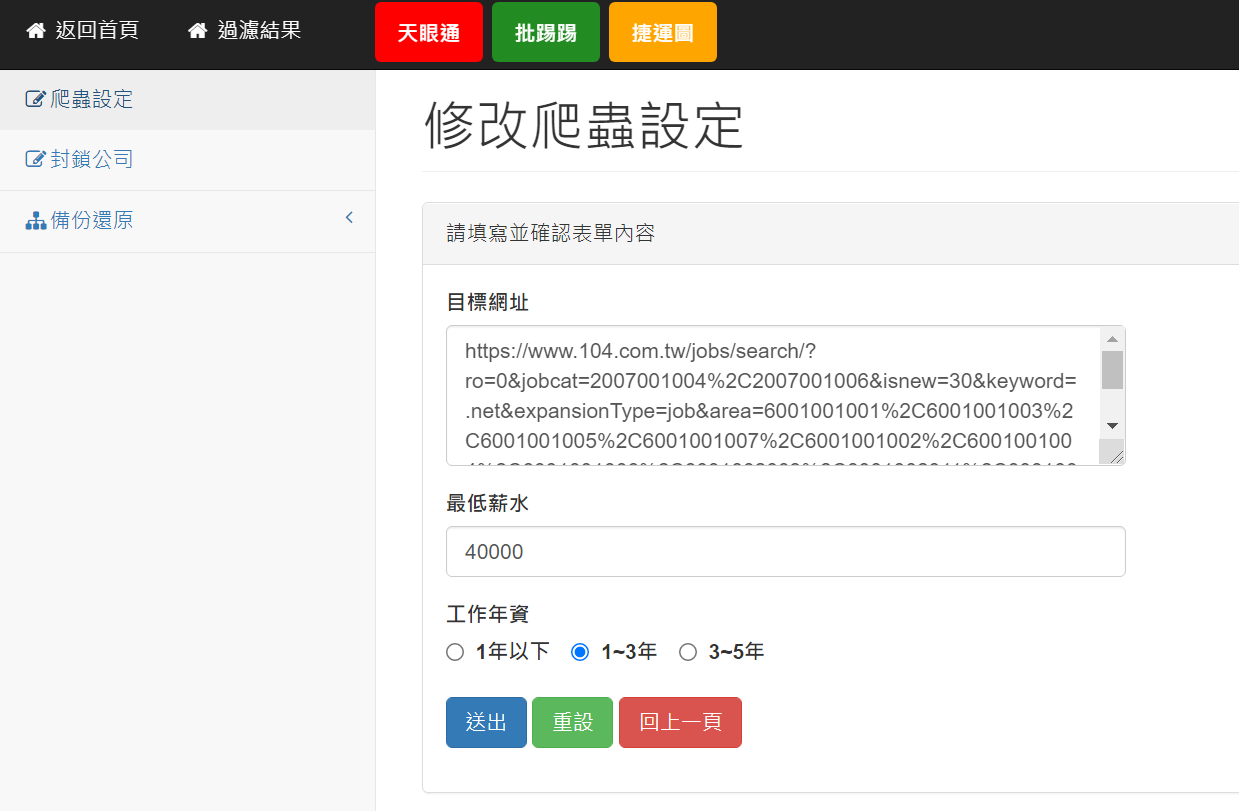
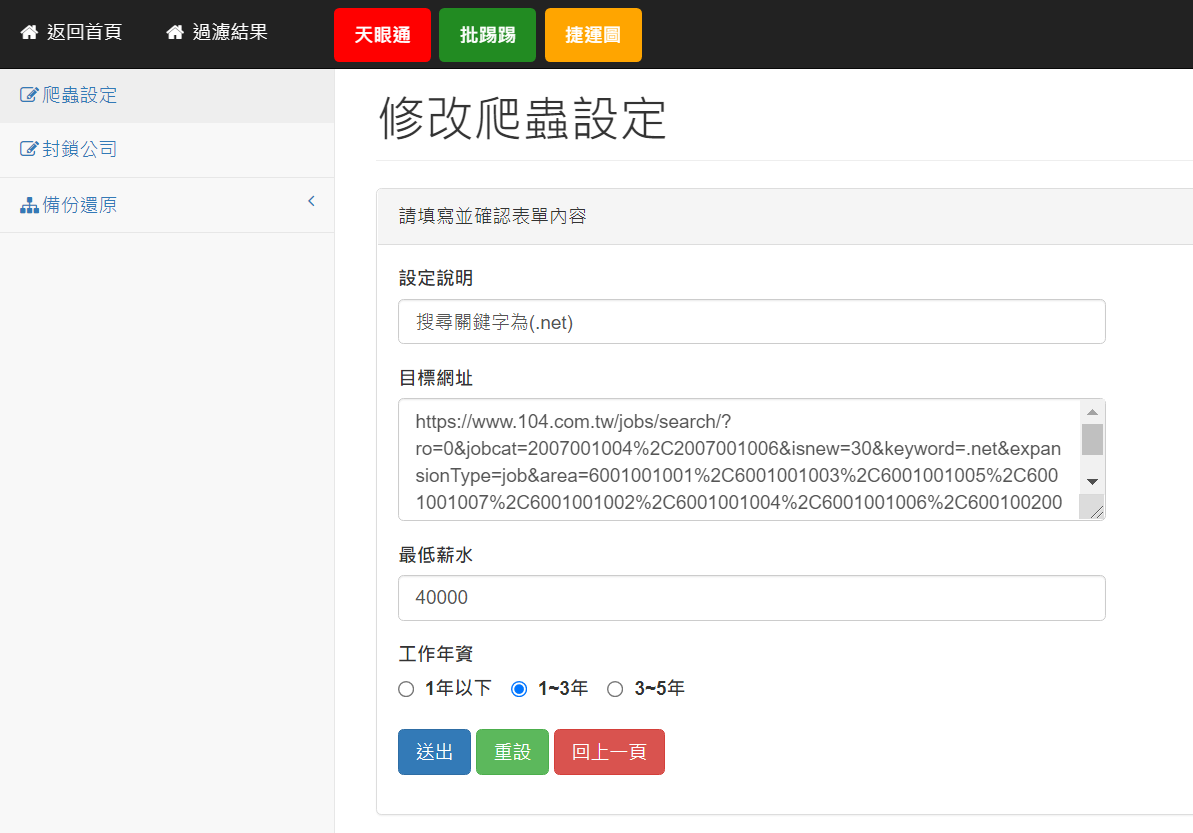
調整說明

Changed region(s): [[0.3101, 0.2466, 0.9304, 0.9556], [0.0, 0.0, 1.0, 0.2774]]

diff --git a/JobFilter2/Controllers/BlockCompanyController.cs b/JobFilter2/Controllers/BlockCompanyController.cs
@@ -98,8 +98,7 @@ namespace JobFilter2.Controllers
             var blockCompany = await _context.BlockCompanies.FirstOrDefaultAsync(u => u.Id == id);
             if (blockCompany == null)
             {
-                TempData["message"] = "修改失敗，此筆資料已被刪除";
-                return RedirectToAction("Edit", new { id });
+                return NotFound();
             }
 
             // 修改該筆資料

diff --git a/readme.md b/readme.md
@@ -36,7 +36,6 @@ create table BlockJobItem
 (  
 &nbsp;&nbsp;&nbsp;&nbsp;Id int primary key NOT NULL IDENTITY,  
 &nbsp;&nbsp;&nbsp;&nbsp;JobCode nvarchar(20) NOT NULL,  
-&nbsp;&nbsp;&nbsp;&nbsp;BlockReason nvarchar(20) NOT NULL,  
 );  
 &emsp;  
 create table BlockCompany  
@@ -52,6 +51,7 @@ create table CrawlSetting
 &nbsp;&nbsp;&nbsp;&nbsp;TargetUrl nvarchar(400) NOT NULL,  
 &nbsp;&nbsp;&nbsp;&nbsp;MinSalary int NOT NULL,  
 &nbsp;&nbsp;&nbsp;&nbsp;Seniority nvarchar(10) NOT NULL,  
+&nbsp;&nbsp;&nbsp;&nbsp;Remark nvarchar(20),  
 );  
 &emsp;  
 # 網站首頁  
